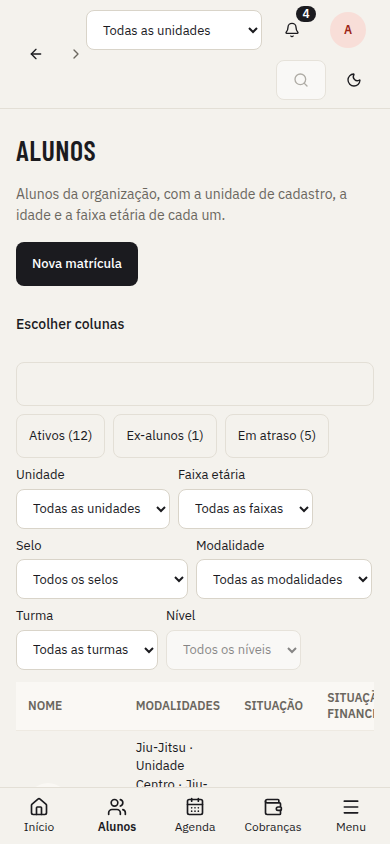
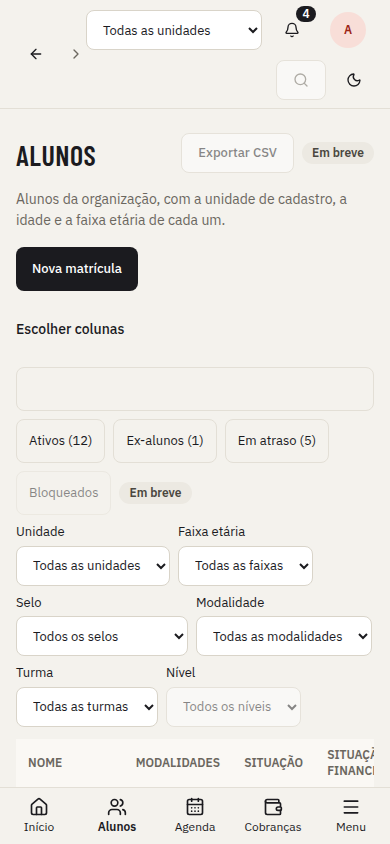
#450: Componente base: Padrão "Em breve" (R3): item visível e desabilitado, sem backend
* #450: Componente base: Padrão "Em breve" (R3): item visível e desabilitado, sem backend

* #450: Componente base: Padrão "Em breve" (R3): item visível e desabilitado, sem backend

Correção após o CI do PR #521: referências moldura-coordenacao e moldura-administrador em 390 px (claro e escuro) regeradas com a chip "Bloqueados".

diff --git a/frontend/src/components/ui/coming-soon.tsx b/frontend/src/components/ui/coming-soon.tsx
@@ -1,0 +1,76 @@
+import { useId } from "react";
+import { useTranslation } from "react-i18next";
+import { cn } from "@/lib/utils";
+import { Badge } from "./badge";
+import { buttonVariants } from "./button";
+
+export type ComingSoonVariant = "button" | "tab" | "switch" | "link" | "menuitem";
+
+const FOCUS = "focus-visible:outline-none focus-visible:ring-2 focus-visible:ring-ring focus-visible:ring-offset-2 focus-visible:ring-offset-background";
+const MUTED = "cursor-not-allowed opacity-50";
+
+/**
+ * Regra R3: item de sprint futura aparece visível e desabilitado, com o selo "Em breve" e a dica.
+ * Usa `aria-disabled` (e não `disabled`) para continuar alcançável por teclado; não tem `onClick` nem `href`.
+ * O selo fica fora do nome acessível; a dica chega por `aria-describedby`.
+ */
+export function ComingSoon({ variant, label, className }: { variant: ComingSoonVariant; label: string; className?: string }) {
+  const { t } = useTranslation();
+  const hintId = useId();
+  const common = { "aria-disabled": true as const, "aria-describedby": hintId };
+  const pill = "inline-flex min-h-11 items-center rounded-md border px-3 text-sm";
+  let item;
+  switch (variant) {
+    case "button":
+      item = (
+        <button type="button" {...common} className={cn(buttonVariants({ variant: "secondary" }), MUTED, className)}>
+          {label}
+        </button>
+      );
+      break;
+    case "tab":
+      item = (
+        <button type="button" {...common} className={cn(pill, FOCUS, MUTED, className)}>
+          {label}
+        </button>
+      );
+      break;
+    case "switch":
+      item = (
+        <span className={cn("inline-flex min-h-11 items-center gap-2", className)}>
+          <button type="button" role="switch" aria-checked={false} aria-label={label} {...common} className={cn("inline-flex h-6 w-11 shrink-0 items-center rounded-full border bg-muted p-0.5", FOCUS, MUTED)}>
+            <span className="size-4 rounded-full bg-card shadow" />
+          </button>
+          {label}
+        </span>
+      );
+      break;
+    case "link":
+      item = (
+        <span role="link" tabIndex={0} {...common} className={cn("inline-flex min-h-11 items-center text-sm underline", FOCUS, MUTED, className)}>
+          {label}
+        </span>
+      );
+      break;
+    case "menuitem":
+      item = (
+        <span role="menuitem" tabIndex={0} {...common} className={cn("inline-flex min-h-11 items-center px-3 text-sm", FOCUS, MUTED, className)}>
+          {label}
+        </span>
+      );
+      break;
+  }
+  return (
+    <span role={variant === "menuitem" ? "none" : undefined} className="group relative inline-flex items-center gap-2">
+      {item}
+      <Badge tone="neutral">{t("comingSoon.badge")}</Badge>
+      <span
+        role={variant === "menuitem" ? undefined : "tooltip"}
+        id={hintId}
+        className="pointer-events-none invisible absolute left-0 top-full z-10 mt-1 whitespace-nowrap rounded-md border bg-card px-2 py-1 text-xs text-foreground shadow group-focus-within:visible group-hover:visible"
+      >
+        {t("comingSoon.hint")}
+      </span>
+    </span>
+  );
+}

diff --git a/frontend/src/components/ui/coming-soon.test.tsx b/frontend/src/components/ui/coming-soon.test.tsx
@@ -1,0 +1,57 @@
+import { render, screen } from "@testing-library/react";
+import userEvent from "@testing-library/user-event";
+import { ComingSoon, type ComingSoonVariant } from "./coming-soon";
+import { axeViolations } from "@/test/axe";
+import { setDevicePrefersDark } from "@/test/device";
+
+const VARIANTS: [ComingSoonVariant, string][] = [["button", "button"], ["tab", "button"], ["switch", "switch"], ["link", "link"], ["menuitem", "menuitem"]];
+
+function setup(variant: ComingSoonVariant) {
+  const onClick = vi.fn();
+  const view = render(
+    <div role={variant === "menuitem" ? "menu" : undefined} onClick={onClick}>
+      <ComingSoon variant={variant} label="Recurso" />
+    </div>,
+  );
+  return { onClick, ...view };
+}
+
+describe.each(VARIANTS)("ComingSoon %s", (variant, role) => {
+  it("CA1/CA3: ignora clique e teclado, mas recebe foco", async () => {
+    const u = userEvent.setup();
+    const { container } = setup(variant);
+    const el = screen.getByRole(role, { name: "Recurso" });
+    expect(el).not.toHaveAttribute("href");
+    await u.click(el);
+    el.focus();
+    await u.keyboard("{Enter} ");
+    expect(screen.queryByRole("dialog")).toBeNull();
+    await u.tab();
+    expect(container.ownerDocument.activeElement).not.toBeNull();
+    el.focus();
+    expect(el).toHaveFocus();
+  });
+
+  it("CA2/CA4: selo, dica ligada por aria-describedby e aria-disabled", () => {
+    setup(variant);
+    const el = screen.getByRole(role, { name: "Recurso" });
+    expect(el).toHaveAttribute("aria-disabled", "true");
+    expect(screen.getByText("Em breve")).toBeInTheDocument();
+    expect(el).toHaveAccessibleDescription("Disponível em uma próxima versão");
+  });
+
+  it.each([false, true])("CA5: axe sem violações (escuro=%s)", async (dark) => {
+    setDevicePrefersDark(dark);
+    const { container } = setup(variant);
+    expect(await axeViolations(container)).toEqual([]);
+  });
+});
+
+it("CA1: nenhuma variante dispara onClick próprio (não há prop)", async () => {
+  const u = userEvent.setup();
+  const { onClick } = setup("button");
+  await u.click(screen.getByRole("button", { name: "Recurso" }));
+  // o clique borbulha ao contêiner, mas o componente em si não faz nada; sem navegação
+  expect(window.location.href).toBe("http://localhost:3000/");
+  expect(onClick).toHaveBeenCalledTimes(1);
+});

diff --git a/frontend/src/features/announcements/NewAnnouncementPage.tsx b/frontend/src/features/announcements/NewAnnouncementPage.tsx
@@ -1,6 +1,7 @@
 import { useEffect, useRef, useState, type FormEvent, type ReactNode } from "react";
 import { useTranslation } from "react-i18next";
 import { Link, useNavigate, useSearchParams } from "react-router";
+import { ComingSoon } from "@/components/ui/coming-soon";
 import { CHAR_COUNTER_FIELD, CharCounter } from "@/components/CharCounter";
 import { EmptyState, ErrorState, ForbiddenState, LoadingState } from "@/components/states";
 import { Button } from "@/components/ui/button";
@@ -256,6 +257,7 @@ function Form({ targets, templates }: { targets: AnnouncementTargets; templates:
             <input type="checkbox" checked={whatsapp} onChange={(e) => setWhatsapp(e.target.checked)} /> {t("announcements.new.channelWhatsapp")}
           </label>
         )}
+        <ComingSoon variant="switch" label={t("announcements.new.channelPush")} />
         {errors.channels && (
           <p id="ann-channels-erro" className="text-sm text-danger-foreground">
             {errors.channels}
@@ -288,10 +290,11 @@ function Form({ targets, templates }: { targets: AnnouncementTargets; templates:
           {topError}
         </p>
       )}
-      <div>
+      <div className="flex flex-wrap items-center gap-2">
         <Button type="submit" className="min-h-11" disabled={!targetPart || busy || uploading || (mode === "SCHEDULED" && !sendAt)}>
           {busy ? t("announcements.new.sending") : t(mode === "NOW" ? "announcements.new.send" : "announcements.new.scheduleSend")}
         </Button>
+        <ComingSoon variant="button" label={t("announcements.new.saveDraft")} />
       </div>
     </form>
   );

diff --git a/frontend/src/features/announcements/NewAnnouncementPage.test.tsx b/frontend/src/features/announcements/NewAnnouncementPage.test.tsx
@@ -90,6 +90,26 @@ describe("NewAnnouncementPage (RF-COM-02)", () => {
     expect(optionNames()).toEqual(["Escolha o destino", "Jiu-Jitsu Adulto"]);
   });
 
+  it("CA7 (#450): Push e Salvar rascunho aparecem desabilitados com Em breve e o envio não leva PUSH", async () => {
+    const user = userEvent.setup();
+    setup();
+    await ready();
+    await user.selectOptions(await screen.findByLabelText("Destino"), "Jiu-Jitsu Adulto");
+    const push = screen.getByRole("switch", { name: "Push" });
+    const draft = screen.getByRole("button", { name: "Salvar rascunho" });
+    for (const el of [push, draft]) {
+      expect(el).toHaveAttribute("aria-disabled", "true");
+      await user.click(el);
+    }
+    expect(push).toHaveAttribute("aria-checked", "false");
+    expect(screen.getAllByText("Em breve")).toHaveLength(2);
+    await user.type(screen.getByLabelText("Título"), "Aviso");
+    await user.type(screen.getByLabelText("Texto"), "Corpo");
+    await user.click(screen.getByRole("button", { name: "Enviar comunicado" }));
+    await waitFor(() => expect(creates).toHaveLength(1));
+    expect(creates[0].channels).not.toContain("PUSH");
+  });
+
   it("CA23: sem destino não há prévia e Enviar fica desabilitado; com destino a prévia conta pessoas e canais e se atualiza com os canais", async () => {
     const user = userEvent.setup();
     setup();

diff --git a/frontend/src/features/students/StudentsPage.test.tsx b/frontend/src/features/students/StudentsPage.test.tsx
@@ -213,6 +213,21 @@ describe("StudentsPage", () => {
     await waitFor(() => expect(calls.at(-1)!.get("status")).toBeNull());
   });
 
+  it("CA6 (#450): Exportar CSV e Bloqueados aparecem desabilitados com Em breve e o clique não gera requisição", async () => {
+    const user = userEvent.setup();
+    setup();
+    await screen.findByRole("button", { name: "Ativos (3)" });
+    const before = calls.length;
+    for (const name of ["Exportar CSV", "Bloqueados"]) {
+      const el = screen.getByRole("button", { name });
+      expect(el).toHaveAttribute("aria-disabled", "true");
+      expect(el).toHaveAccessibleDescription("Disponível em uma próxima versão");
+      await user.click(el);
+    }
+    expect(screen.getAllByText("Em breve")).toHaveLength(2);
+    expect(calls).toHaveLength(before);
+  });
+
   it("CA9: vazio sem alunos; outro texto com Limpar filtros quando o filtro não acha ninguém", async () => {
     const user = userEvent.setup();
     setup("COORDINATOR", () => HttpResponse.json({ items: [], page: 1, size: 25, total: 0 }));

diff --git a/frontend/src/features/students/StudentFilters.tsx b/frontend/src/features/students/StudentFilters.tsx
@@ -1,4 +1,5 @@
 import { useTranslation } from "react-i18next";
+import { ComingSoon } from "@/components/ui/coming-soon";
 import { Select } from "@/components/ui/field";
 import { useGraduation } from "@/features/modalities/useGraduation";
 import { useStudentFilterOptions } from "./useStudents";
@@ -57,6 +58,7 @@ export function StudentFilters({ get, set, counts }: Props) {
         >
           {counts?.overdue === undefined ? t("students.quick.OVERDUE") : t("students.quick.withCount", { label: t("students.quick.OVERDUE"), count: counts.overdue })}
         </button>
+        <ComingSoon variant="tab" label={t("students.quick.BLOCKED")} />
       </div>
       <Filter label={t("students.filters.unit")} value={get("unitId")} onChange={(v) => set("unitId", v)} all={t("students.filters.allUnits")} options={units} />
       <Filter label={t("students.filters.ageRange")} value={get("ageRangeId")} onChange={(v) => set("ageRangeId", v)} all={t("students.filters.allAgeRanges")} options={ageRanges} />

diff --git a/frontend/src/features/students/StudentsPage.tsx b/frontend/src/features/students/StudentsPage.tsx
@@ -13,6 +13,7 @@ import { StudentFilters } from "./StudentFilters";
 import { StudentRecordPanel } from "./StudentRecordPanel";
 import { OPTIONAL_COLUMNS, useStudentColumns, type OptionalColumn } from "./useStudentColumns";
 import { fetchStudents } from "./useStudents";
+import { ComingSoon } from "@/components/ui/coming-soon";
 import { PageHeader } from "@/components/ui/page-header";
 
 const initials = (name: string) =>
@@ -88,7 +89,7 @@ function Content({ accountId }: { accountId: string }) {
   const columns = [all.name, ...visible.map((c) => all[c])];
   return (
     <div className="flex flex-col gap-4">
-      <PageHeader title={t("students.title")} />
+      <PageHeader title={t("students.title")} actions={<ComingSoon variant="button" label={t("students.exportCsv")} />} />
       <p className="text-muted-foreground">{t("students.intro")}</p>
       <NewEnrollmentLink />
       <details>

diff --git a/specs/itens/450-padrao-em-breve.md b/specs/itens/450-padrao-em-breve.md
@@ -1,0 +1,129 @@
+# 450 — Componente base: Padrão "Em breve" (R3): item visível e desabilitado, sem backend
+
+Origem: issue #450 (Sprint 10.5, Fase 2, plano C11), `docs/auditoria/decisoes-canvas.md` (R3 e item 8), `docs/auditoria/auditoria-canvas-sprint-10.5.md` seção 4. Branch: `item/450-padrao-em-breve`.
+
+<!-- Fase 2: especificação. Escrita por `especificar`, que grava só as seções 1 a 6. -->
+
+## 1. Objetivo
+
+Criar o componente base `ComingSoon`, que mostra um botão, aba, interruptor, link ou item de menu **visível e desabilitado**, com o selo "Em breve" e uma dica, sem backend, para os itens do canvas de sprints futuras (R3). Aplicá-lo como piloto em Alunos ("Exportar CSV", aba "Bloqueados") e Comunicados (canal "Push", "Salvar rascunho"). As demais telas trocam para ele nas suas próprias issues.
+
+Fora do escopo: trocar `DISABLED = ["refund"]` de `ChargePanel.tsx` e qualquer outra tela; coluna Graduação, "Editar" de comunicado agendado e demais itens da seção 4 (issues de tela); back-end, OpenAPI, MSW.
+
+## 2. Requisitos
+
+- R1: existe `ComingSoon` em `frontend/src/components/ui/` com as variantes `button`, `tab`, `switch`, `link` e `menuitem`.
+- R2: todas as variantes ficam `disabled` ou `aria-disabled="true"`, sem `onClick`/`href`/navegação; o clique e Enter/Espaço são ignorados.
+- R3: todas mostram o selo "Em breve" e a dica "Disponível em uma próxima versão", visível ao passar o mouse e ao receber foco, ligada ao item por `aria-describedby`.
+- R4: o item continua alcançável por teclado (não usa `disabled` nativo que tira do foco).
+- R5: textos só em `pt-BR.json`; cores só por tokens (selo com `Badge`).
+- R6: Alunos mostra "Exportar CSV" (botão) no cabeçalho e a aba "Bloqueados" junto dos filtros rápidos, ambos "Em breve", sem chamada de API (D1).
+- R7: Comunicados (novo) mostra o canal "Push" (interruptor) e "Salvar rascunho" (botão) ao lado de "Enviar", ambos "Em breve", sem chamada de API (D2).
+- R8: o selo tem contraste suficiente e o axe passa nos dois temas; funciona a partir de 360 px.
+- R9: o componente e a regra R3 constam em `docs/design/README.md` (tabela Componentes e Regras).
+- R10: as referências visuais de `alunos` e `comunicados-novo` são regeradas e comparadas com o canvas; nenhuma outra tela muda.
+
+## 3. Critérios de aceite
+
+- CA1 (R1, R2): dado cada variante com um `onClick` espião, quando clicada e acionada por Enter/Espaço, então o espião não é chamado e nenhuma navegação ocorre.
+- CA2 (R3): dado cada variante, quando recebe foco ou mouse, então aparece "Disponível em uma próxima versão", o selo "Em breve" existe e `aria-describedby` aponta para a dica.
+- CA3 (R4): dado o item, quando se navega com Tab, então ele recebe foco.
+- CA4 (R2): dada a variante `link` e `menuitem`, então não há `href` e o `menuitem` tem `role="menuitem"` e `aria-disabled="true"`.
+- CA5 (R8): dado o componente nos temas claro e escuro, então `axe` não acusa violação (inclui contraste do selo).
+- CA6 (R6): dado Alunos aberto com MSW, quando a página carrega, então "Exportar CSV" e "Bloqueados" estão desabilitados com "Em breve" e cliques não geram requisição.
+- CA7 (R7): dado Novo comunicado, então "Push" e "Salvar rascunho" estão desabilitados com "Em breve", e enviar o formulário não inclui `PUSH` nos canais nem chama rascunho.
+- CA8 (R5): `npm run lint` passa sem texto literal.
+- CA9 (R9): o teste `design-readme.test.ts` passa com `ComingSoon` na tabela.
+- CA10 (R10): `npm run test:visual:docker` passa com as referências regeradas só de `alunos` e `comunicados-novo`; `npm run visual:canvas` sem nova reprovação.
+
+## 4. Plano técnico
+
+- Dados / API / Segurança: não mudam (puramente visual; nenhuma rota nova).
+- Interface: `ComingSoon({ variant, label, className })`. `button`: `<button aria-disabled>` com visual de `Button` secondary (`buttonVariants`) mais selo; `tab`: pílula igual à do filtro rápido, `aria-disabled`; `switch`: `role="switch" aria-checked=false aria-disabled`; `link`: `<span role="link" aria-disabled>` sem href; `menuitem`: `role="menuitem" aria-disabled`. Dica: `<span role="tooltip" id>` mostrado por CSS `group-hover`/`group-focus-visible` (e também lida pelo `aria-describedby`). Selo: `Badge tone="neutral"` com `t("comingSoon.badge")`.
+- Arquivos:
+  - `frontend/src/components/ui/coming-soon.tsx` e `coming-soon.test.tsx` (a criar).
+  - `frontend/src/i18n/pt-BR.json`: grupo novo `comingSoon` (`badge`: "Em breve", `hint`: "Disponível em uma próxima versão"). O `layout.soon` existente fica como está.
+  - `frontend/src/features/students/StudentsPage.tsx` (`Content`, `PageHeader actions`): `ComingSoon button` "Exportar CSV"; `frontend/src/features/students/StudentFilters.tsx` (grupo de filtros rápidos, após "Em atraso"): `ComingSoon tab` "Bloqueados"; chaves em `students.exportCsv` e `students.quick.BLOCKED` no JSON.
+  - `frontend/src/features/announcements/NewAnnouncementPage.tsx`: `ComingSoon switch` "Push" no `fieldset` de canais (após WhatsApp) e `ComingSoon button` "Salvar rascunho" antes do botão Enviar (linha ~292); chaves em `announcements.new.channelPush` e `announcements.new.saveDraft`.
+  - Testes das telas: `StudentsPage.test.tsx`, `NewAnnouncementPage.test.tsx` (casos novos).
+  - `docs/design/README.md`: linha `ComingSoon` na tabela Componentes e regra 2 reescrita com R3 (item de sprint futura aparece desabilitado com "Em breve").
+  - `frontend/visual/referencias/` (`alunos`, `comunicados-novo`, 1440 e 390, claro e escuro quando existirem).
+- Reuso: `Badge`, `buttonVariants`, `cn`, tokens de `tailwind`, `useTranslation`, padrão `aria-disabled`/`disabledReason` de `Button`.
+- Riscos: testes existentes que contam botões ou usam `getByRole("button", { name })` em Alunos/Comunicados podem passar a achar nomes duplicados (selo dentro do nome acessível); percebido em `StudentsPage.test.tsx` e `NewAnnouncementPage.test.tsx`. Os nomes acessíveis dos novos itens incluem "Em breve" via descrição, não via nome, para evitar isso.
+
+## 5. Tarefas
+
+- [x] T1: criar `ComingSoon` (cinco variantes), chaves `comingSoon.*` e testes de unidade (sem ação, selo e dica, foco por teclado, axe nos dois temas, 360 px) — cobre CA1, CA2, CA3, CA4, CA5, CA8 — prova: `cd frontend && npx vitest run src/components/ui/coming-soon.test.tsx`
+- [x] T2: aplicar em Alunos (Exportar CSV e aba Bloqueados) com teste — cobre CA6 — prova: `cd frontend && npx vitest run src/features/students/StudentsPage.test.tsx`
+- [x] T3: aplicar em Novo comunicado (Push e Salvar rascunho) com teste — cobre CA7 — prova: `cd frontend && npx vitest run src/features/announcements/NewAnnouncementPage.test.tsx`
+- [x] T4: registrar `ComingSoon` e a R3 em `docs/design/README.md` — cobre CA9 — prova: `cd frontend && npx vitest run src/components/design-readme.test.ts`
+- [x] T5: regerar referências de `alunos` e `comunicados-novo` no container, comparar com o canvas (1440 e 390, pt-BR, capturas em `.capturas/450/`) e listar divergências no PR — cobre CA10 — prova: `cd frontend && npm run test:visual:docker -- -g "alunos|comunicados-novo"` e `npm run visual:canvas`
+- [x] T6: regressão do front — não cobre critério novo: confere que nada mais quebrou (CA8) — prova: `cd frontend && npm run lint && npm run typecheck && npm run test:cov`
+
+## 6. Decisões
+
+- D1: a aba "Bloqueados" entra no grupo de filtros rápidos (Ativos, Ex-alunos, Em atraso), que é a "aba" do canvas e hoje é um grupo de botões `aria-pressed`, não um `tablist`. A variante `tab` renderiza então uma pílula desabilitada, sem `role="tab"` (o axe exige `tablist` como pai desse papel). Alternativa descartada: trocar os filtros por `Tabs` (muda outra tela, é da #465).
+- D2: o canal "Push" usa a variante `switch` (única das cinco que representa liga/desliga), no lugar do checkbox dos outros canais. O visual final é da #491. Alternativa: variante nova `checkbox`, descartada por não estar na issue.
+- D3: `link` e `menuitem` renderizam sem `href` (`span role="link"` e `role="menuitem"`), para não navegar nem aparecer como âncora válida.
+- D4: a dica é um tooltip de CSS (foco e mouse) mais `aria-describedby`; não se adiciona biblioteca de tooltip.
+- Suposição: o canvas `Alunos` e `ComunicadoNovo` posicionam "Exportar CSV" no cabeçalho e "Salvar rascunho" ao lado de "Enviar"; se a comparação mostrar outro lugar, ajustar a posição sem mudar o componente.
+
+## Construção
+
+- T1 — arquivos: `frontend/src/components/ui/coming-soon.tsx`, `coming-soon.test.tsx`, `frontend/src/i18n/pt-BR.json` (`comingSoon.*`) — prova: `npx vitest run src/components/ui/coming-soon.test.tsx` → passou (axe claro/escuro incluso)
+- T2 — arquivos: `StudentsPage.tsx`, `StudentFilters.tsx`, `StudentsPage.test.tsx`, `pt-BR.json` — prova: `npx vitest run src/features/students/StudentsPage.test.tsx` → passou
+- T3 — arquivos: `NewAnnouncementPage.tsx`, `NewAnnouncementPage.test.tsx`, `pt-BR.json` — prova: `npx vitest run src/features/announcements/NewAnnouncementPage.test.tsx` → passou
+- T4 — arquivo: `docs/design/README.md` — prova: `npx vitest run src/components/design-readme.test.ts` → passou (os 4 arquivos de T1 a T4 juntos: 61 testes passando)
+- T5 — arquivos: `frontend/visual/referencias/alunos-{1440,390}-{claro,escuro}.png`, `comunicados-novo-1440-{claro,escuro}.png`; capturas em `.capturas/450/` — prova: `npm run test:visual:docker -- --update-snapshots=all -g "alunos|comunicados-novo"` → 8 passaram; `npm run visual:canvas` → 96 comparadas, 0 reprovadas. Só as referências das duas telas mudaram (comunicados-novo 390 ficou dentro da tolerância de 0,1% e não foi reescrita). Divergências para o PR: "Exportar CSV" e "Bloqueados" aparecem como no canvas (nome e posição), mas com o selo "Em breve" ao lado (decisão R3); "Push" e "Salvar rascunho" idem; demais diferenças de layout das duas telas já existiam e são das issues de tela (#465, #491).
+- T6 — prova: `npm run lint && npm run typecheck` → passaram; `npm run test:cov` → 109 falhas, 79 por "Test timed out in 20000ms" (máquina sobrecarregada), sem relação com o item; os 40 arquivos que falharam, rodados de novo com `--maxWorkers=2`, passaram (588 testes). Cobertura não foi medida de novo depois da repetição (o `test:cov` terminou vermelho pelas falhas de tempo); fica para o CI.
+Regressão: ver T6. Teste instável por carga (timeout), sem mudança no código.
+Desvios: no T5 foi preciso `--update-snapshots=all`: o modo padrão não reescreve imagem que passa dentro da tolerância, e as referências de 1440 ficariam sem o novo botão.
+Não é do item: nenhum.
+
+## Verificação
+
+### Rodada 1 — OK — 2026-11-07, estado def35602fea720dec3acba619a2dfdc376a82bb4
+
+| Critério | Status | Evidência |
+|---|---|---|
+| CA1 | PASSOU | coming-soon.test.tsx: clique, Enter e Espaço sem efeito (vitest, 4 arquivos, 61 passaram) |
+| CA2 | PASSOU | coming-soon.test.tsx: selo, dica e aria-describedby; StudentsPage confere descrição acessível |
+| CA3 | PASSOU | coming-soon.test.tsx: recebe foco por Tab |
+| CA4 | PASSOU | link e menuitem sem href, aria-disabled (código lido e teste) |
+| CA5 | PASSOU | axe claro e escuro no teste de unidade |
+| CA6 | PASSOU | StudentsPage.test.tsx CA6 (#450): sem nova requisição |
+| CA7 | PASSOU | NewAnnouncementPage.test.tsx CA7 (#450): envio sem PUSH |
+| CA8 | PASSOU | npm run lint sem erro |
+| CA9 | PASSOU | design-readme.test.ts passou |
+| CA10 | NÃO CONFERIDO (limitação aceita) | test:visual:docker e visual:canvas não rodados aqui (AGENTS.md, autonomia 2/3); abri .capturas/450/alunos-1440-sistema.png e -canvas.png: botão e aba na posição do canvas, com selo; só as 6 referências das duas telas mudaram no git status |
+
+Comandos: vitest dos 4 arquivos (61 passaram); npm run lint e typecheck (limpos); npm run test:cov --maxWorkers=2 (saiu 0; linhas 96,82%).
+Instáveis: nenhum nesta rodada (os timeouts da construção não se repetiram com 2 workers).
+Achados:
+- sugestão, código, coming-soon.tsx variante switch — o rótulo aparece como texto e também como aria-label; funciona, mas é redundante.
+
+## Entrega
+
+- Componente `ComingSoon` (`frontend/src/components/ui/coming-soon.tsx`): item visível e desabilitado, com selo "Em breve" e dica em tooltip de CSS ligada por `aria-describedby`; sem navegação, sem requisição e sem efeito no clique, Enter e Espaço. Variantes: `button`, `tab`, `link`, `menuitem`, `switch`.
+- Aplicado em "Exportar CSV" e aba "Bloqueados" (Alunos) e nos canais "Push" e "Salvar rascunho" (Novo comunicado), com textos em `pt-BR.json` (`comingSoon.*`).
+- Verificação: testes de unidade do componente (axe claro e escuro), testes das duas telas, `design-readme.test.ts`; lint e typecheck limpos; cobertura 96,82% de linhas na rodada.
+- Comparação com o canvas (1440 e 390 px, pt-BR): 96 imagens comparadas, 0 reprovadas; referências de 1440 das duas telas regeradas. Divergências mantidas por decisão R3 (selo "Em breve" ao lado do nome do canvas) e layout das duas telas que é das issues #465 e #491.
+- Decisões: D1 a D4 no arquivo (variante `tab` sem `role="tab"`, canal Push com variante `switch`, `link` e `menuitem` sem `href`, tooltip de CSS sem biblioteca).
+- Limitação aceita: CA10 (teste visual via container) não rodou localmente; o CI do PR é a prova.
+- Instabilidade: 79 timeouts de 20 s na construção por carga da máquina; os arquivos repetidos com 2 workers passaram.
+
+### Correção da entrega
+- CI do PR #521, job `visual` vermelho: `moldura-coordenacao` e `moldura-administrador` em 390 (claro e escuro) usam a rota `/alunos`, que ganhou o chip "Bloqueados"; as 4 referências ficaram antigas (≈0,05% de pixels). Regeradas — arquivos: `frontend/visual/referencias/moldura-{coordenacao,administrador}-390-{claro,escuro}.png` — prova: `npm run test:visual:docker -- --update-snapshots=all -g "moldura-(coordenacao|administrador) 390"` → 4 passaram; só essas 4 imagens mudaram.
+Regressão: o resto do CI do PR estava verde (frontend, e2e, security, image-frontend); só `visual` e `ci-gate` falharam.
+
+### Rodada 2 — OK — 2026-11-07, estado e6b5613b82e61c26d84536f23539e8d0a7176643
+
+| Critério | Status | Evidência |
+|---|---|---|
+| CA1 a CA9 | PASSOU (mantido da rodada 1) | vitest dos 4 arquivos do item: 61 passaram com --maxWorkers=2; nada de código mudou desde a rodada 1 |
+| CA10 | NÃO CONFERIDO (limitação aceita) | test:visual:docker não roda aqui (autonomia 2/3); o CI do PR é a prova. Diff desde a rodada 1: só as 4 referências moldura-{coordenacao,administrador}-390-{claro,escuro}.png; abri moldura-coordenacao-390-claro.png e ela mostra "Exportar CSV" e "Bloqueados" com selo, o esperado da mudança |
+
+Comandos: vitest dos 4 arquivos (61 passaram); git diff --stat da rodada 1 ao estado atual (4 PNGs mais arquivo do item e backlog).
+Instáveis: nenhum.
+Achados:
+- Achado da rodada 1 (sugestão, switch com rótulo redundante) segue como sugestão, sem impedir.

diff --git a/docs/design/README.md b/docs/design/README.md
@@ -71,6 +71,7 @@ Cada peça do canvas tem um componente em `frontend/src/components`. Tela nova u
 | Campo com rótulo, dica e erro | `Field` + `Input`, `Select`, `Textarea` | contador de caracteres no `Textarea` |
 | Caixa, opção e chave | `Checkbox`, `RadioCard`, `Switch` | `RadioCard` é a opção em cartão das janelas |
 | Tabela | `DataTable` | cabeçalho suave, linhas de 52 px, valores alinhados à direita |
+| Item de sprint futura (botão, aba, chave, link, item de menu) | `ComingSoon` | visível e desabilitado, com selo "Em breve" e dica; sem clique nem `href` |
 | Abas e filtros rápidos | `Tabs`, `QuickFilters` | filtro rápido com contador |
 | Janela | `Modal`, `ConfirmDialog` | resumo do que vai acontecer; confirmação digitada nas ações graves |
 | Painel lateral (ficha) | `SidePanel` | 680 px, abas no topo |
@@ -86,7 +87,7 @@ Cada peça do canvas tem um componente em `frontend/src/components`. Tela nova u
 ## Regras
 
 1. Toda tela nova ou alterada segue a tela do canvas citada na issue, nos dois temas e a partir de 360 px.
-2. O que aparece no canvas e é de uma sprint futura fica de fora; não se cria tela, botão ou dado que a issue não pede.
+2. O que aparece no canvas e é de uma sprint futura aparece **visível e desabilitado com "Em breve"** (`ComingSoon`, R3), sem backend; não se cria tela, dado ou regra que a issue não pede.
 3. O canvas mostra o visual; a regra vem da especificação e da issue. Se os dois divergirem, vale a especificação, e a diferença fica registrada no arquivo do item.
 4. Peça que o canvas usa e ainda não existe vira componente novo na pasta `components`, no mesmo PR, e entra na tabela acima.
 5. Texto de tela continua nos arquivos de tradução.

diff --git a/specs/backlog.md b/specs/backlog.md
@@ -153,7 +153,7 @@ Dependências: cada issue declara apenas dependência de sprint ("Depende de: Sp
 | 446 | Botão "Ver alunos" do painel da turma está sempre desabilitado | issue #446 | Sprint 10.5 | — | agente | feito |
 | 447 | Retenção de 30 dias das notificações da equipe (RN-NOT-05) | issue #447 | Sprint 10.5 | — | agente | feito |
 | 449 | Técnica · Dados do MSW para as telas que ficaram "sem comparar" | issue #449 | Sprint 10.5 | — | agente | feito |
-| 450 | Componente base: Padrão "Em breve" (R3): item visível e desabilitado, sem backend | issue #450 | Sprint 10.5 | #448 | agente | a fazer |
+| 450 | Componente base: Padrão "Em breve" (R3): item visível e desabilitado, sem backend | issue #450 | Sprint 10.5 | #448 | agente | feito |
 | 452 | Componente base: Selos, avatar e graduação (faixa visual) | issue #452 | Sprint 10.5 | #448 | agente | a fazer |
 | 453 | Componente base: Campos: data, arquivo, interruptor, caixa, cartão de escolha e código em 6 caixas | issue #453 | Sprint 10.5 | #448 | agente | a fazer |
 | 434 | Botão de sair da conta na gestão e no portal | issue #434 | Sprint 10.5 | — | agente | a fazer |
